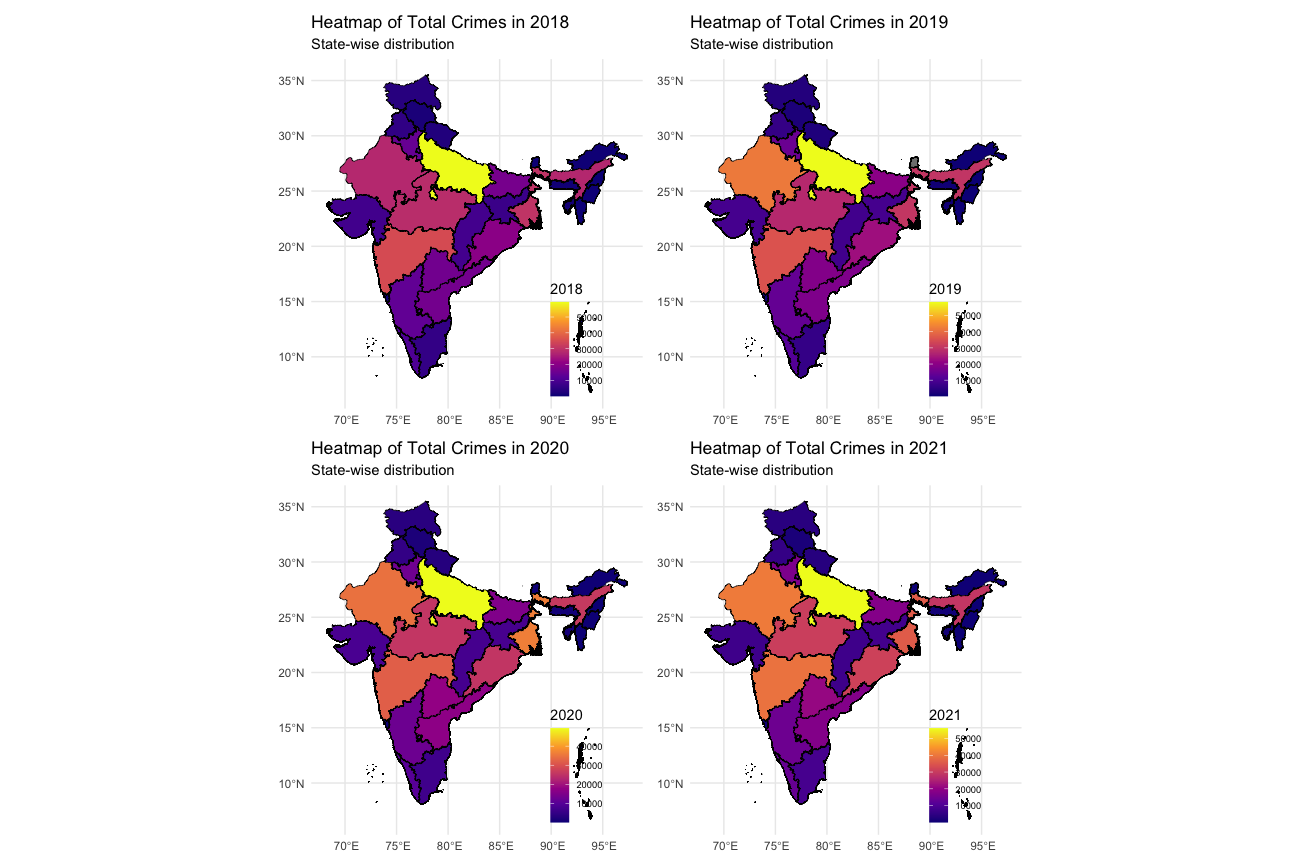
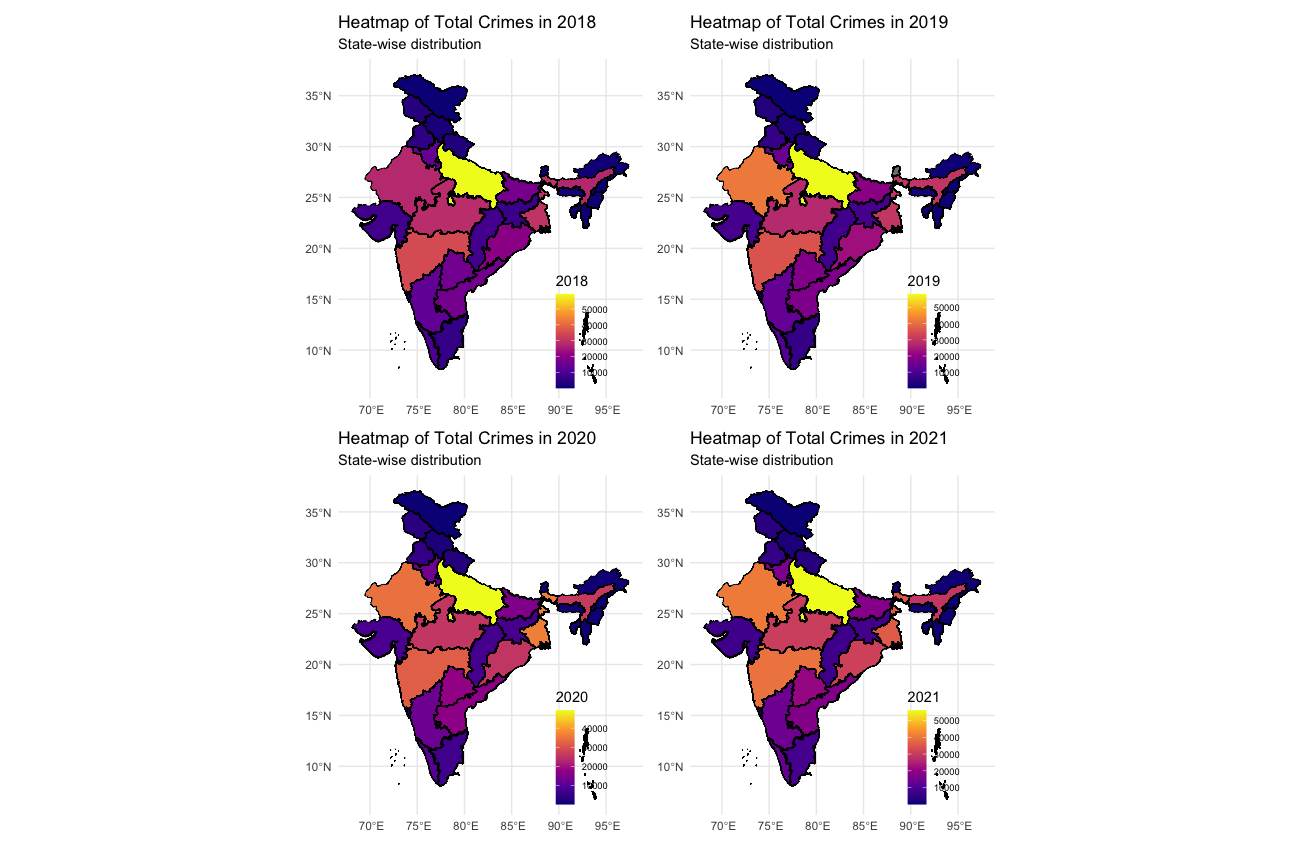
Built site for gh-pages

diff --git a/tidy-analysis/22072024/index.html b/tidy-analysis/22072024/index.html
@@ -228,14 +228,15 @@ pre > code.sourceCode > span > a:first-child::before { text-decoration: underlin
 <div class="sourceCode cell-code" id="cb2"><pre class="sourceCode python code-with-copy"><code class="sourceCode python"><span id="cb2-1"><a href="#cb2-1" aria-hidden="true" tabindex="-1"></a>data <span class="op">&lt;-</span> readr::read_csv(<span class="st">'districtwise-crime-against-women.csv'</span>)</span>
 <span id="cb2-2"><a href="#cb2-2" aria-hidden="true" tabindex="-1"></a></span>
 <span id="cb2-3"><a href="#cb2-3" aria-hidden="true" tabindex="-1"></a><span class="co">## For Loading Shape Files</span></span>
-<span id="cb2-4"><a href="#cb2-4" aria-hidden="true" tabindex="-1"></a>INDIA_MAP <span class="op">=</span> st_read(<span class="st">"IND_ShapeFiles/gadm41_IND_1.shp"</span>)</span>
-<span id="cb2-5"><a href="#cb2-5" aria-hidden="true" tabindex="-1"></a></span>
-<span id="cb2-6"><a href="#cb2-6" aria-hidden="true" tabindex="-1"></a><span class="co">## Indian Census Population from Wikipedia </span></span>
-<span id="cb2-7"><a href="#cb2-7" aria-hidden="true" tabindex="-1"></a>url <span class="op">&lt;-</span> <span class="st">"https://en.wikipedia.org/wiki/List_of_states_and_union_territories_of_India_by_population"</span></span>
-<span id="cb2-8"><a href="#cb2-8" aria-hidden="true" tabindex="-1"></a>webpage <span class="op">&lt;-</span> read_html(url)</span>
-<span id="cb2-9"><a href="#cb2-9" aria-hidden="true" tabindex="-1"></a>tables <span class="op">&lt;-</span> html_nodes(webpage, <span class="st">"table"</span>)</span>
-<span id="cb2-10"><a href="#cb2-10" aria-hidden="true" tabindex="-1"></a>population_table <span class="op">&lt;-</span> html_table(tables[[<span class="dv">2</span>]], fill <span class="op">=</span> TRUE)</span>
-<span id="cb2-11"><a href="#cb2-11" aria-hidden="true" tabindex="-1"></a>rm(tables,webpage,url)</span></code><button title="Copy to Clipboard" class="code-copy-button"><i class="bi"></i></button></pre></div>
+<span id="cb2-4"><a href="#cb2-4" aria-hidden="true" tabindex="-1"></a><span class="co"># https://projects.datameet.org/maps/#state-boundaries</span></span>
+<span id="cb2-5"><a href="#cb2-5" aria-hidden="true" tabindex="-1"></a>INDIA_MAP <span class="op">=</span> st_read(<span class="st">"States/Admin2.shp"</span>)</span>
+<span id="cb2-6"><a href="#cb2-6" aria-hidden="true" tabindex="-1"></a></span>
+<span id="cb2-7"><a href="#cb2-7" aria-hidden="true" tabindex="-1"></a><span class="co">## Indian Census Population from Wikipedia </span></span>
+<span id="cb2-8"><a href="#cb2-8" aria-hidden="true" tabindex="-1"></a>url <span class="op">&lt;-</span> <span class="st">"https://en.wikipedia.org/wiki/List_of_states_and_union_territories_of_India_by_population"</span></span>
+<span id="cb2-9"><a href="#cb2-9" aria-hidden="true" tabindex="-1"></a>webpage <span class="op">&lt;-</span> read_html(url)</span>
+<span id="cb2-10"><a href="#cb2-10" aria-hidden="true" tabindex="-1"></a>tables <span class="op">&lt;-</span> html_nodes(webpage, <span class="st">"table"</span>)</span>
+<span id="cb2-11"><a href="#cb2-11" aria-hidden="true" tabindex="-1"></a>population_table <span class="op">&lt;-</span> html_table(tables[[<span class="dv">2</span>]], fill <span class="op">=</span> TRUE)</span>
+<span id="cb2-12"><a href="#cb2-12" aria-hidden="true" tabindex="-1"></a>rm(tables,webpage,url)</span></code><button title="Copy to Clipboard" class="code-copy-button"><i class="bi"></i></button></pre></div>
 </details>
 </div>
 </section>
@@ -313,38 +314,38 @@ pre > code.sourceCode > span > a:first-child::before { text-decoration: underlin
 <span id="cb3-67"><a href="#cb3-67" aria-hidden="true" tabindex="-1"></a>  mutate(</span>
 <span id="cb3-68"><a href="#cb3-68" aria-hidden="true" tabindex="-1"></a>    CrimesPerDay <span class="op">=</span> <span class="bu">round</span>(TotalCrimes<span class="op">/</span><span class="dv">365</span>,<span class="dv">0</span>),</span>
 <span id="cb3-69"><a href="#cb3-69" aria-hidden="true" tabindex="-1"></a>    NAME_1 <span class="op">=</span> case_when(</span>
-<span id="cb3-70"><a href="#cb3-70" aria-hidden="true" tabindex="-1"></a>      state_name <span class="op">==</span> <span class="st">"Andaman And Nicobar Islands"</span> <span class="op">~</span> <span class="st">"Andaman and Nicobar"</span>,</span>
-<span id="cb3-71"><a href="#cb3-71" aria-hidden="true" tabindex="-1"></a>      state_name <span class="op">==</span> <span class="st">"The Dadra And Nagar Haveli And Daman And Diu"</span> <span class="op">~</span> <span class="st">"Dadra and Nagar Haveli"</span>,</span>
-<span id="cb3-72"><a href="#cb3-72" aria-hidden="true" tabindex="-1"></a>      state_name <span class="op">==</span> <span class="st">"Delhi"</span> <span class="op">~</span> <span class="st">"NCT of Delhi"</span>,</span>
-<span id="cb3-73"><a href="#cb3-73" aria-hidden="true" tabindex="-1"></a>      state_name <span class="op">==</span> <span class="st">"Jammu And Kashmir"</span> <span class="op">~</span> <span class="st">"Jammu and Kashmir"</span>,</span>
-<span id="cb3-74"><a href="#cb3-74" aria-hidden="true" tabindex="-1"></a>      TRUE <span class="op">~</span> state_name</span>
-<span id="cb3-75"><a href="#cb3-75" aria-hidden="true" tabindex="-1"></a>    )</span>
-<span id="cb3-76"><a href="#cb3-76" aria-hidden="true" tabindex="-1"></a>  ) </span>
-<span id="cb3-77"><a href="#cb3-77" aria-hidden="true" tabindex="-1"></a></span>
-<span id="cb3-78"><a href="#cb3-78" aria-hidden="true" tabindex="-1"></a><span class="co">## Loading Indian Map with State Boundaries from shape files downloaded from https://gadm.org/download_country.html#google_vignette</span></span>
-<span id="cb3-79"><a href="#cb3-79" aria-hidden="true" tabindex="-1"></a>india_map <span class="op">=</span> data.frame(INDIA_MAP)</span>
-<span id="cb3-80"><a href="#cb3-80" aria-hidden="true" tabindex="-1"></a>india_map <span class="op">=</span> subset(india_map, india_map$GID_0 <span class="op">==</span> <span class="st">"IND"</span> <span class="op">|</span> india_map$GID_0 <span class="op">==</span> <span class="st">"Z01"</span> <span class="op">|</span> india_map$GID_0 <span class="op">==</span> <span class="st">"Z07"</span>)</span>
-<span id="cb3-81"><a href="#cb3-81" aria-hidden="true" tabindex="-1"></a>india_map <span class="op">=</span> india_map[,c(<span class="st">"NAME_1"</span>,<span class="st">"geometry"</span>)]</span>
-<span id="cb3-82"><a href="#cb3-82" aria-hidden="true" tabindex="-1"></a>india_map <span class="op">=</span> india_map[c(<span class="dv">1</span>:<span class="dv">2</span>,<span class="dv">4</span>:<span class="dv">37</span>),]</span>
-<span id="cb3-83"><a href="#cb3-83" aria-hidden="true" tabindex="-1"></a></span>
-<span id="cb3-84"><a href="#cb3-84" aria-hidden="true" tabindex="-1"></a><span class="co">## Creattion of Population Data from Loaded Wikipedia page</span></span>
-<span id="cb3-85"><a href="#cb3-85" aria-hidden="true" tabindex="-1"></a>population_table <span class="op">&lt;-</span> population_table[c(<span class="dv">2</span>:<span class="dv">37</span>),c(<span class="dv">2</span>,<span class="dv">3</span>)]</span>
-<span id="cb3-86"><a href="#cb3-86" aria-hidden="true" tabindex="-1"></a></span>
-<span id="cb3-87"><a href="#cb3-87" aria-hidden="true" tabindex="-1"></a>population_table <span class="op">|&gt;</span></span>
-<span id="cb3-88"><a href="#cb3-88" aria-hidden="true" tabindex="-1"></a>  select(State <span class="op">=</span> `State <span class="kw">or</span> Union Territory`, Population <span class="op">=</span> `Population[<span class="dv">18</span>][<span class="dv">19</span>]`) <span class="op">|&gt;</span></span>
-<span id="cb3-89"><a href="#cb3-89" aria-hidden="true" tabindex="-1"></a>  mutate(</span>
-<span id="cb3-90"><a href="#cb3-90" aria-hidden="true" tabindex="-1"></a>    Population <span class="op">=</span> <span class="im">as</span>.numeric(gsub(<span class="st">","</span>, <span class="st">""</span>, Population)), </span>
-<span id="cb3-91"><a href="#cb3-91" aria-hidden="true" tabindex="-1"></a>    State <span class="op">=</span> trimws(State),</span>
-<span id="cb3-92"><a href="#cb3-92" aria-hidden="true" tabindex="-1"></a>    PopulationPer1Lakh <span class="op">=</span> <span class="bu">round</span>(Population<span class="op">/</span><span class="dv">100000</span>,<span class="dv">0</span>),</span>
-<span id="cb3-93"><a href="#cb3-93" aria-hidden="true" tabindex="-1"></a>    PopulationPer1Lakh <span class="op">=</span> case_when(</span>
-<span id="cb3-94"><a href="#cb3-94" aria-hidden="true" tabindex="-1"></a>      State <span class="op">==</span> <span class="st">"Andhra Pradesh"</span> <span class="op">~</span> <span class="dv">496</span>,</span>
-<span id="cb3-95"><a href="#cb3-95" aria-hidden="true" tabindex="-1"></a>      TRUE <span class="op">~</span> PopulationPer1Lakh</span>
-<span id="cb3-96"><a href="#cb3-96" aria-hidden="true" tabindex="-1"></a>    )</span>
-<span id="cb3-97"><a href="#cb3-97" aria-hidden="true" tabindex="-1"></a>  ) <span class="op">|&gt;</span></span>
-<span id="cb3-98"><a href="#cb3-98" aria-hidden="true" tabindex="-1"></a>  mutate(</span>
-<span id="cb3-99"><a href="#cb3-99" aria-hidden="true" tabindex="-1"></a>    NAME_1 <span class="op">=</span> case_when(</span>
-<span id="cb3-100"><a href="#cb3-100" aria-hidden="true" tabindex="-1"></a>      State <span class="op">==</span> <span class="st">"Andaman and Nicobar Islands"</span> <span class="op">~</span> <span class="st">"Andaman and Nicobar"</span>,</span>
-<span id="cb3-101"><a href="#cb3-101" aria-hidden="true" tabindex="-1"></a>      State <span class="op">==</span> <span class="st">"Dadra and Nagar Haveli and Daman and Diu"</span> <span class="op">~</span> <span class="st">"Dadra and Nagar Haveli"</span>,</span>
+<span id="cb3-70"><a href="#cb3-70" aria-hidden="true" tabindex="-1"></a>      state_name <span class="op">==</span> <span class="st">"Andaman And Nicobar Islands"</span> <span class="op">~</span> <span class="st">"Andaman &amp; Nicobar"</span>,</span>
+<span id="cb3-71"><a href="#cb3-71" aria-hidden="true" tabindex="-1"></a>      state_name <span class="op">==</span> <span class="st">"The Dadra And Nagar Haveli And Daman And Diu"</span> <span class="op">~</span> <span class="st">"Dadra and Nagar Haveli and Daman and Diu"</span>,</span>
+<span id="cb3-72"><a href="#cb3-72" aria-hidden="true" tabindex="-1"></a>      state_name <span class="op">==</span> <span class="st">"Jammu And Kashmir"</span> <span class="op">~</span> <span class="st">"Jammu &amp; Kashmir"</span>,</span>
+<span id="cb3-73"><a href="#cb3-73" aria-hidden="true" tabindex="-1"></a>      TRUE <span class="op">~</span> state_name</span>
+<span id="cb3-74"><a href="#cb3-74" aria-hidden="true" tabindex="-1"></a>    )</span>
+<span id="cb3-75"><a href="#cb3-75" aria-hidden="true" tabindex="-1"></a>  ) </span>
+<span id="cb3-76"><a href="#cb3-76" aria-hidden="true" tabindex="-1"></a></span>
+<span id="cb3-77"><a href="#cb3-77" aria-hidden="true" tabindex="-1"></a><span class="co">## Loading Indian Map with State Boundaries from shape files downloaded from https://gadm.org/download_country.html#google_vignette</span></span>
+<span id="cb3-78"><a href="#cb3-78" aria-hidden="true" tabindex="-1"></a>india_map <span class="op">=</span> data.frame(INDIA_MAP)</span>
+<span id="cb3-79"><a href="#cb3-79" aria-hidden="true" tabindex="-1"></a>india_map <span class="op">&lt;-</span></span>
+<span id="cb3-80"><a href="#cb3-80" aria-hidden="true" tabindex="-1"></a>  india_map <span class="op">|&gt;</span></span>
+<span id="cb3-81"><a href="#cb3-81" aria-hidden="true" tabindex="-1"></a>  select(NAME_1 <span class="op">=</span> `ST_NM`,geometry<span class="op">=</span>`geometry`)</span>
+<span id="cb3-82"><a href="#cb3-82" aria-hidden="true" tabindex="-1"></a></span>
+<span id="cb3-83"><a href="#cb3-83" aria-hidden="true" tabindex="-1"></a><span class="co">## Creattion of Population Data from Loaded Wikipedia page</span></span>
+<span id="cb3-84"><a href="#cb3-84" aria-hidden="true" tabindex="-1"></a>population_table <span class="op">&lt;-</span> population_table[c(<span class="dv">2</span>:<span class="dv">37</span>),c(<span class="dv">2</span>,<span class="dv">3</span>)]</span>
+<span id="cb3-85"><a href="#cb3-85" aria-hidden="true" tabindex="-1"></a></span>
+<span id="cb3-86"><a href="#cb3-86" aria-hidden="true" tabindex="-1"></a>population_table <span class="op">|&gt;</span></span>
+<span id="cb3-87"><a href="#cb3-87" aria-hidden="true" tabindex="-1"></a>  select(State <span class="op">=</span> `State <span class="kw">or</span> Union Territory`, Population <span class="op">=</span> `Population[<span class="dv">18</span>][<span class="dv">19</span>]`) <span class="op">|&gt;</span></span>
+<span id="cb3-88"><a href="#cb3-88" aria-hidden="true" tabindex="-1"></a>  mutate(</span>
+<span id="cb3-89"><a href="#cb3-89" aria-hidden="true" tabindex="-1"></a>    Population <span class="op">=</span> <span class="im">as</span>.numeric(gsub(<span class="st">","</span>, <span class="st">""</span>, Population)), </span>
+<span id="cb3-90"><a href="#cb3-90" aria-hidden="true" tabindex="-1"></a>    State <span class="op">=</span> trimws(State),</span>
+<span id="cb3-91"><a href="#cb3-91" aria-hidden="true" tabindex="-1"></a>    PopulationPer1Lakh <span class="op">=</span> <span class="bu">round</span>(Population<span class="op">/</span><span class="dv">100000</span>,<span class="dv">0</span>),</span>
+<span id="cb3-92"><a href="#cb3-92" aria-hidden="true" tabindex="-1"></a>    PopulationPer1Lakh <span class="op">=</span> case_when(</span>
+<span id="cb3-93"><a href="#cb3-93" aria-hidden="true" tabindex="-1"></a>      State <span class="op">==</span> <span class="st">"Andhra Pradesh"</span> <span class="op">~</span> <span class="dv">496</span>,</span>
+<span id="cb3-94"><a href="#cb3-94" aria-hidden="true" tabindex="-1"></a>      TRUE <span class="op">~</span> PopulationPer1Lakh</span>
+<span id="cb3-95"><a href="#cb3-95" aria-hidden="true" tabindex="-1"></a>    )</span>
+<span id="cb3-96"><a href="#cb3-96" aria-hidden="true" tabindex="-1"></a>  ) <span class="op">|&gt;</span></span>
+<span id="cb3-97"><a href="#cb3-97" aria-hidden="true" tabindex="-1"></a>  mutate(</span>
+<span id="cb3-98"><a href="#cb3-98" aria-hidden="true" tabindex="-1"></a>    NAME_1 <span class="op">=</span> case_when(</span>
+<span id="cb3-99"><a href="#cb3-99" aria-hidden="true" tabindex="-1"></a>      State <span class="op">==</span> <span class="st">"Andaman and Nicobar Islands"</span> <span class="op">~</span> <span class="st">"Andaman &amp; Nicobar"</span>,</span>
+<span id="cb3-100"><a href="#cb3-100" aria-hidden="true" tabindex="-1"></a>      State <span class="op">==</span> <span class="st">"Dadra and Nagar Haveli and Daman and Diu"</span> <span class="op">~</span> <span class="st">"Dadra and Nagar Haveli and Daman and Diu"</span>,</span>
+<span id="cb3-101"><a href="#cb3-101" aria-hidden="true" tabindex="-1"></a>      State <span class="op">==</span> <span class="st">"Jammu and Kashmir"</span> <span class="op">~</span> <span class="st">"Jammu &amp; Kashmir"</span>,</span>
 <span id="cb3-102"><a href="#cb3-102" aria-hidden="true" tabindex="-1"></a>      State <span class="op">==</span> <span class="st">"Manipur[d]"</span> <span class="op">~</span> <span class="st">"Manipur"</span>,</span>
 <span id="cb3-103"><a href="#cb3-103" aria-hidden="true" tabindex="-1"></a>      TRUE <span class="op">~</span> State</span>
 <span id="cb3-104"><a href="#cb3-104" aria-hidden="true" tabindex="-1"></a>      )</span>

diff --git a/index.html b/index.html
@@ -205,7 +205,7 @@ window.Quarto = {
 
 <div class="quarto-listing quarto-listing-container-default" id="listing-listing">
 <div class="list quarto-listing-default">
-<div class="quarto-post image-right" data-index="0" data-listing-date-sort="1721586600000" data-listing-file-modified-sort="1721672270462" data-listing-date-modified-sort="NaN" data-listing-reading-time-sort="17" data-listing-word-count-sort="3218">
+<div class="quarto-post image-right" data-index="0" data-listing-date-sort="1721586600000" data-listing-file-modified-sort="1721715008273" data-listing-date-modified-sort="NaN" data-listing-reading-time-sort="17" data-listing-word-count-sort="3220">
 <div class="thumbnail">
 <p><a href="./tidy-analysis/22072024/index.html" class="no-external"></a></p><a href="./tidy-analysis/22072024/index.html" class="no-external">
 <p class="card-img-top"><img src="tidy-analysis/22072024/Plot1_ViolenceCategory_Trend.png"  class="thumbnail-image card-img"/></p>
